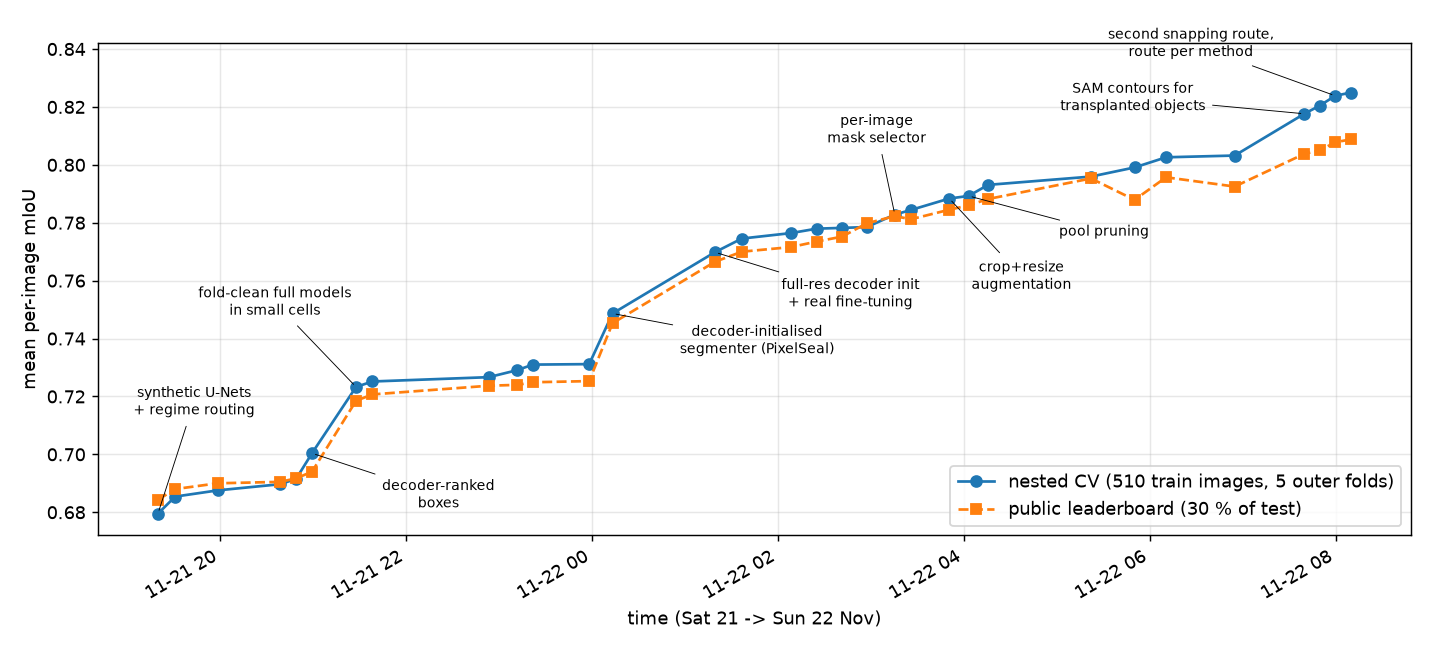
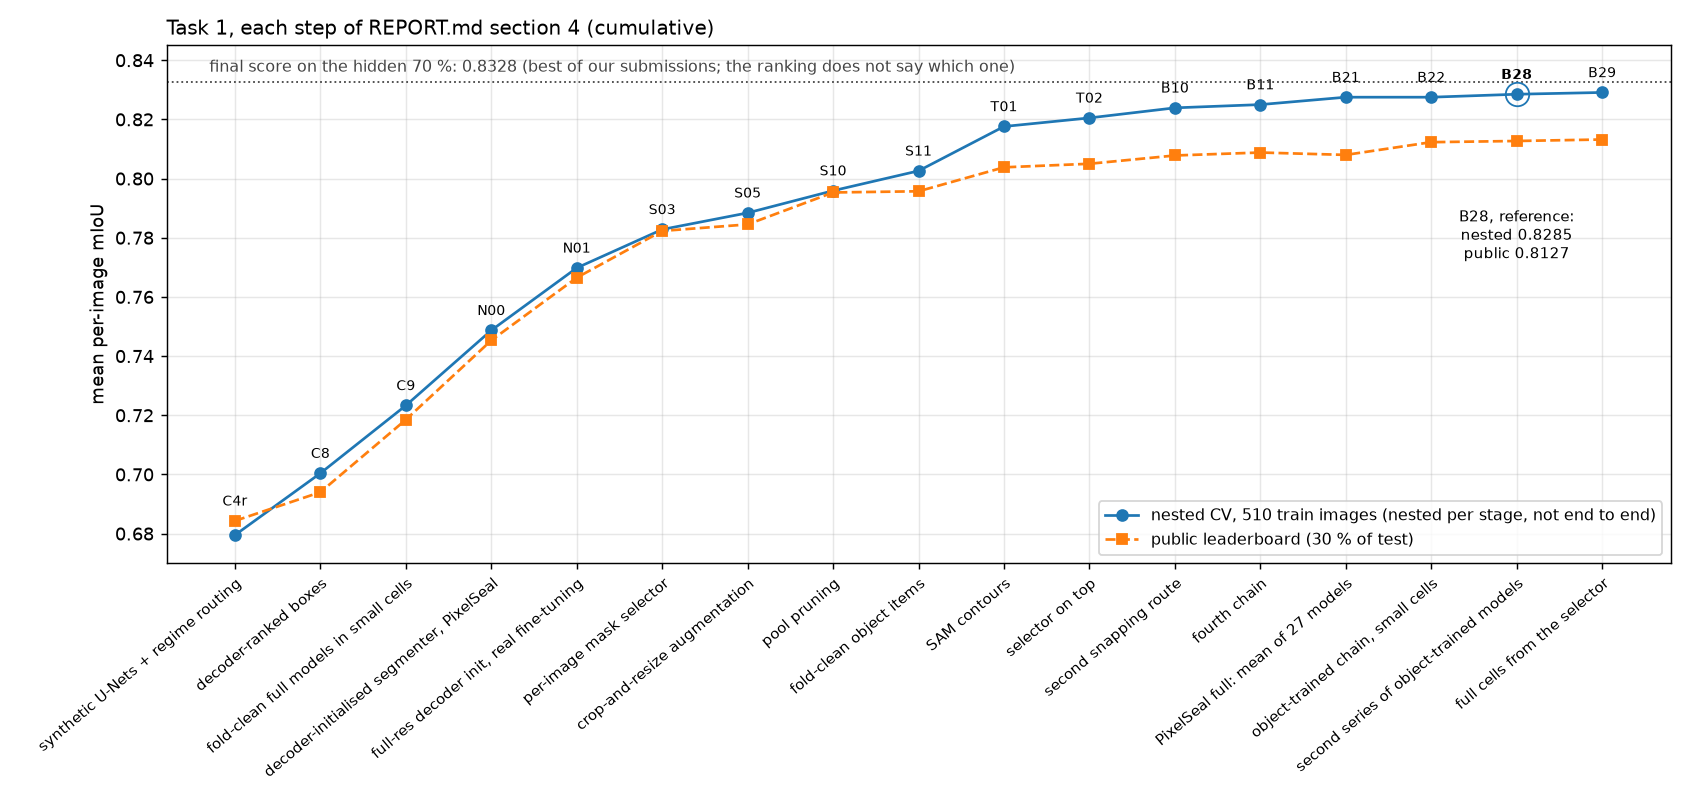
Task 1: REPORT fixes (team name, per-stage nesting, crop-resize wording, figure paths), timeline figure up to B29

diff --git a/task1_watermark_localisation/figures/make_fig1.py b/task1_watermark_localisation/figures/make_fig1.py
@@ -1,0 +1,55 @@
+"""fig1_timeline.png: nested CV and public score of each step of REPORT.md, section 4 (numbers copied from that table).
+    python figures/make_fig1.py        (needs matplotlib)
+"""
+from pathlib import Path
+
+import matplotlib
+matplotlib.use("Agg")
+import matplotlib.pyplot as plt
+
+STEPS = [  # name, short label, nested CV, public
+    ("C4r", "synthetic U-Nets\n+ regime routing", 0.6795, 0.6843),
+    ("C8", "decoder-ranked boxes", 0.7004, 0.6940),
+    ("C9", "fold-clean full models\nin small cells", 0.7233, 0.7185),
+    ("N00", "decoder-initialised\nsegmenter, PixelSeal", 0.7487, 0.7453),
+    ("N01", "full-res decoder init,\nreal fine-tuning", 0.7698, 0.7665),
+    ("S03", "per-image\nmask selector", 0.7828, 0.7823),
+    ("S05", "crop-and-resize\naugmentation", 0.7884, 0.7845),
+    ("S10", "pool pruning", 0.7959, 0.7953),
+    ("S11", "fold-clean\nobject items", 0.8026, 0.7957),
+    ("T01", "SAM contours", 0.8176, 0.8038),
+    ("T02", "selector on top", 0.8205, 0.8050),
+    ("B10", "second snapping\nroute", 0.8239, 0.8078),
+    ("B11", "fourth chain", 0.8250, 0.8088),
+    ("B21", "PixelSeal full:\nmean of 27 models", 0.8275, 0.8080),
+    ("B22", "object-trained chain,\nsmall cells", 0.8275, 0.8123),
+    ("B28", "second series of\nobject-trained models", 0.8285, 0.8127),
+    ("B29", "full cells from\nthe selector", 0.8291, 0.8132),
+]
+FINAL = 0.8328  # official final ranking, hidden 70 %, Task 1
+
+x = list(range(len(STEPS)))
+cv = [s[2] for s in STEPS]
+pub = [s[3] for s in STEPS]
+
+fig, ax = plt.subplots(figsize=(13, 6.2))
+ax.plot(x, cv, "o-", color="#1f77b4", label="nested CV, 510 train images (nested per stage, not end to end)")
+ax.plot(x, pub, "s--", color="#ff7f0e", label="public leaderboard (30 % of test)")
+ax.axhline(FINAL, color="#444444", lw=1, ls=":")
+ax.text(-0.3, FINAL + 0.002, f"final score on the hidden 70 %: {FINAL:.4f} (best of our submissions; "
+        "the ranking does not say which one)", fontsize=9, color="#444444", va="bottom")
+for i, s in enumerate(STEPS):
+    ax.text(i, max(cv[i], pub[i]) + 0.004, s[0], ha="center", va="bottom", fontsize=8, fontweight="bold" if s[0] == "B28" else "normal")
+ref = [s[0] for s in STEPS].index("B28")
+ax.plot([ref], [cv[ref]], "o", ms=13, mfc="none", mec="#1f77b4")
+ax.text(ref, 0.790, "B28, reference:\nnested 0.8285\npublic 0.8127", ha="center", va="top", fontsize=8.5)
+ax.set_xticks(x)
+ax.set_xticklabels([s[1].replace("\n", " ") for s in STEPS], rotation=40, ha="right", fontsize=8.5,
+                   rotation_mode="anchor")
+ax.set_ylabel("mean per-image mIoU")
+ax.set_ylim(0.67, 0.845)
+ax.grid(alpha=0.3)
+ax.legend(loc="lower right", fontsize=9)
+ax.set_title("Task 1, each step of REPORT.md section 4 (cumulative)", fontsize=11, loc="left")
+fig.tight_layout()
+fig.savefig(Path(__file__).with_name("fig1_timeline.png"), dpi=130)

diff --git a/task1_watermark_localisation/REPORT.md b/task1_watermark_localisation/REPORT.md
@@ -1,7 +1,7 @@
 # Task 1 — Can a watermark be localised after the fact?
 
-Team meta-hackathon, CISPA European AI Championship, Paris, 21–22 Nov 2026. Numbers are fully nested 5-fold CV on the 510
-train images unless stated; "public" is the public leaderboard (30 % of the test set).
+Team Murmell, CISPA European AI Championship, Paris, 21–22 Nov 2026. Numbers are 5-fold CV on the 510 train images,
+nested per stage, not end to end (section 5), unless stated; "public" is the public leaderboard (30 % of the test set).
 
 ## 1. Why localise
 
@@ -29,7 +29,9 @@ Yes, to a useful degree, and how well depends on the carrier and on the scale of
 | **all** | 510 | **0.8285** (candidate B28) | 0.83 (not reached) |
 
 Reference: B28, nested 0.8285, public 0.8127 (ID 4137, sent 11:18:00). Before the object-contour step: S11, nested 0.8026,
-public 0.7957 (ID 3236). Our honest expectation on the hidden test is about 0.81.
+public 0.7957 (ID 3236). Before the results, our honest expectation on the hidden test was about 0.81. The final score
+on the hidden 70 % is 0.8328, 2nd of 44 teams on this task (best team 0.8524). The final ranking does not say which of
+our submissions produced it.
 
 ## 3. Method
 
@@ -41,8 +43,9 @@ public 0.7957 (ID 3236). Our honest expectation on the hidden test is about 0.81
    real train images, out of fold. A plain U-Net on the 510 real images alone stayed at the constant level (0.45).
 3. **Decoder-initialised segmenters (PixelSeal and TrustMark; StegaStamp keeps an ImageNet encoder).** The encoder starts
    from the official decoder (TrustMark ResNet-50, PixelSeal ConvNeXt-V2): the features that read the message also say where it is. Without them: −0.042.
-4. **Reducing the synthetic-to-real gap.** The real frames went through a global crop and resize; training with that
-   resampling moves a PixelSeal model from 0.7105 to 0.7524 on real full-regime images. Feathered hole borders help
+4. **Reducing the synthetic-to-real gap.** How the real frames were processed is unknown. PixelSeal is very sensitive to
+   light smoothing, and a crop-and-resize augmentation moves a PixelSeal model from 0.7105 to 0.7524 on real full-regime
+   images: a substitute that works, not a demonstrated explanation. Feathered hole borders help
    TrustMark (0.7263 → 0.7334). A light per-fold fine-tuning on the real images adds 0.005 to 0.007, shift TTA a little more.
 5. **Informed boxes.** A rectangle search ranked by decoding agreement replaces the mask when a box decodes the message
    with bit accuracy ≥ 0.8. Without it: −0.021.
@@ -62,7 +65,7 @@ public 0.7957 (ID 3236). Our honest expectation on the hidden test is about 0.81
    not at first (0.847 against 0.847 on TrustMark small); with a second series of such models it does (TrustMark small 0.855,
    StegaStamp small 0.879). The five candidates built on these models score 0.8118 to 0.8131 on the public board, the six
    earlier ones 0.8055 to 0.8098.
-9. **Fully nested selection.** For each (method, regime) cell, the models, their pairs, the post-processing and the
+9. **Nested selection, per stage.** For each (method, regime) cell, the models, their pairs, the post-processing and the
    threshold are chosen on four folds and scored on the fifth; a rule forbids a model to be used on images whose mask
    shapes it has seen. A per-image mask selector (LightGBM on label-free statistics) added 0.003 to 0.006 before SAM.
 
@@ -88,14 +91,18 @@ public 0.7957 (ID 3236). Our honest expectation on the hidden test is about 0.81
 | + second series of object-trained models in that chain (B28; TrustMark small chosen in 5/5 folds) | 0.8285 | 0.8127 |
 | same with the full cells from the selector on the last pool (B29; best public of the team) | 0.8291 | 0.8132 |
 
-Figures (in `~/wmloc_report/figures/`): `fig1_timeline.png` nested CV and public score of every submission;
-`fig2_gap.png` the synthetic-to-real gap and its closing; `fig3_examples.png` median image of each cell (candidate T01);
-`fig4_sam.png` three transplanted objects before and after the SAM contour step (out-of-fold masks of S11 and of the B10 chains; median gain among improved images. Changed object images,
-better / worse: PixelSeal 28 / 1, TrustMark 26 / 12, StegaStamp 34 / 5).
+Figures (in [`figures/`](figures/)): [`fig1_timeline.png`](figures/fig1_timeline.png) nested CV and public score of each
+step of this table, with the final hidden score as a reference line ([`make_fig1.py`](figures/make_fig1.py));
+[`fig3_examples.png`](figures/fig3_examples.png) median image of each cell (candidate T01);
+[`fig4_sam.png`](figures/fig4_sam.png) three transplanted objects before and after the SAM contour step (out-of-fold masks
+of S11 and of the B10 chains; median gain among improved images. Changed object images, better / worse: PixelSeal 28 / 1,
+TrustMark 26 / 12, StegaStamp 34 / 5). A figure of the synthetic-to-real gap is not included: its bars were measured on
+images seen in training.
 
 ## 5. How much to trust 0.80 and 0.82
 
-Thresholds and model choices are nested, but the result is still optimistic, by about 0.015 for B10.
+Thresholds and model choices are nested per stage, not end to end, so the result is still optimistic, by about 0.015 for
+B10.
 
 - Selection across passes: S11 is the best of about ten successive passes; recipes (crop-resize, feather, object items) were
   kept after reading validation scores on the same 510 images; 20 selector configurations were looked at.
@@ -148,8 +155,10 @@ VAE grid (AUC 0.50); TruFor as a zero-shot edit detector (AUC 0.45–0.50 on res
 
 - No original or clean image was searched or used; ground truth was not reconstructed from outside copies.
 - **Self-training was tried.** Four PL_* models were trained on pseudo-labelled test images (04:35–04:42), before the team
-  decided against it at 05:50. None is in the lineage of any of our 36 submissions (314 runs traced at 08:49). Otherwise test
-  images serve as backgrounds for synthetic data and as inputs at inference.
+  decided against it at 05:50. None is in the lineage of any of our 36 submissions (314 runs traced at 08:49). The script
+  is kept in [`experiments/pseudo_ft.py`](experiments/pseudo_ft.py). Otherwise test images serve as inputs at inference
+  and, without labels, as backgrounds for the synthetic data of the other two methods, never of their own method (a hard
+  assertion in [`synth_full.py`](src/synth_full.py)).
 - **Three submissions had a CV leak** (N08 ID 2140, S08 ID 2908, S09 ID 3007): fine-tuned models used on folds whose mask
   shapes they had seen. Their CV is invalid and they were removed as references. They were sent, so the server still counts them.
 - **Public leaderboard.** Models and thresholds come from CV. The public score was watched as an alarm, and at 08:11 it was
